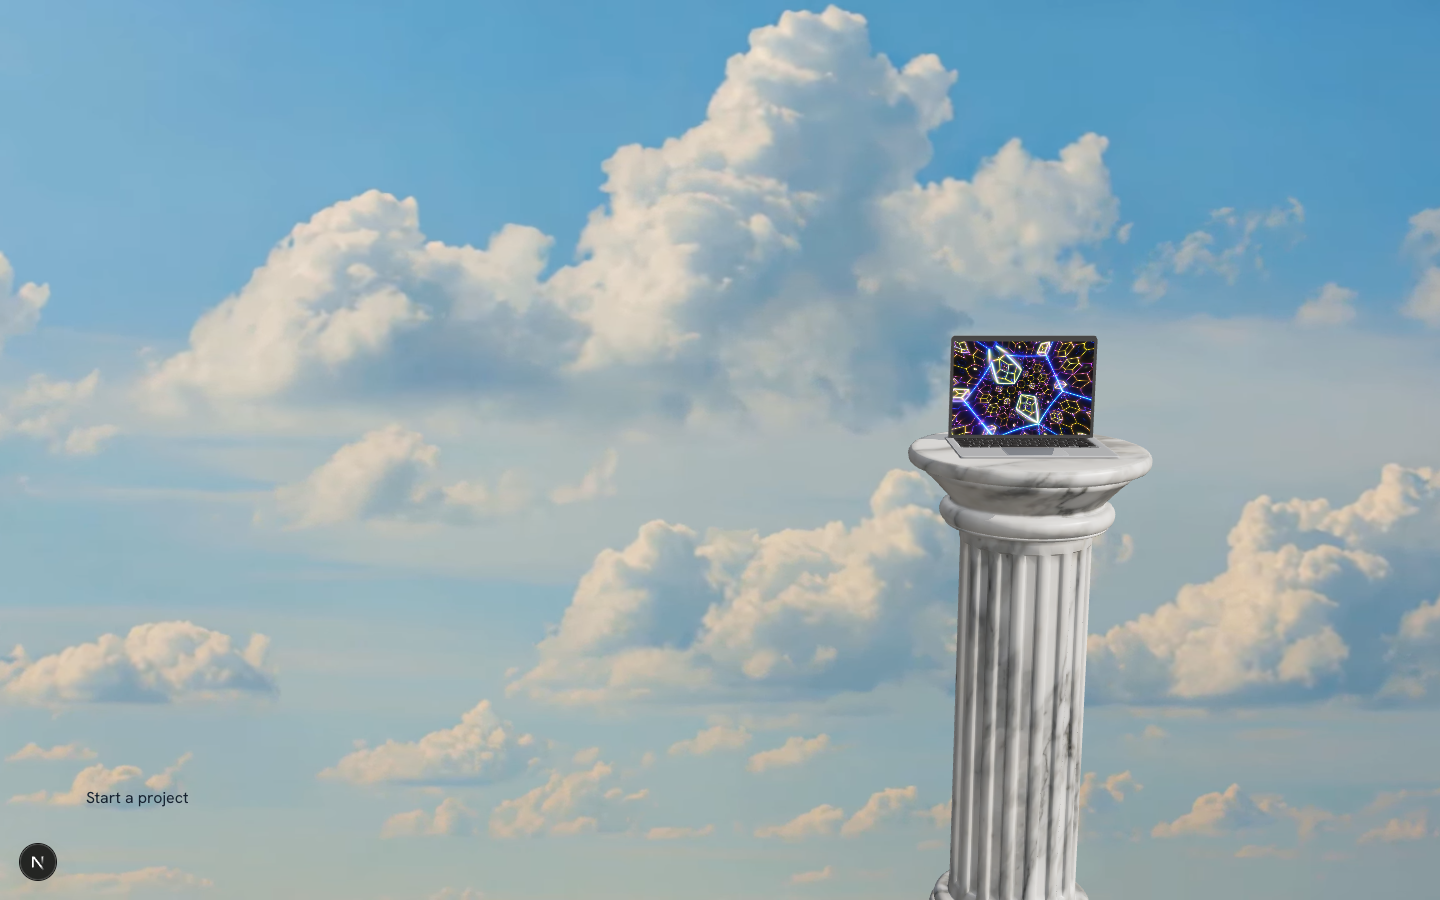
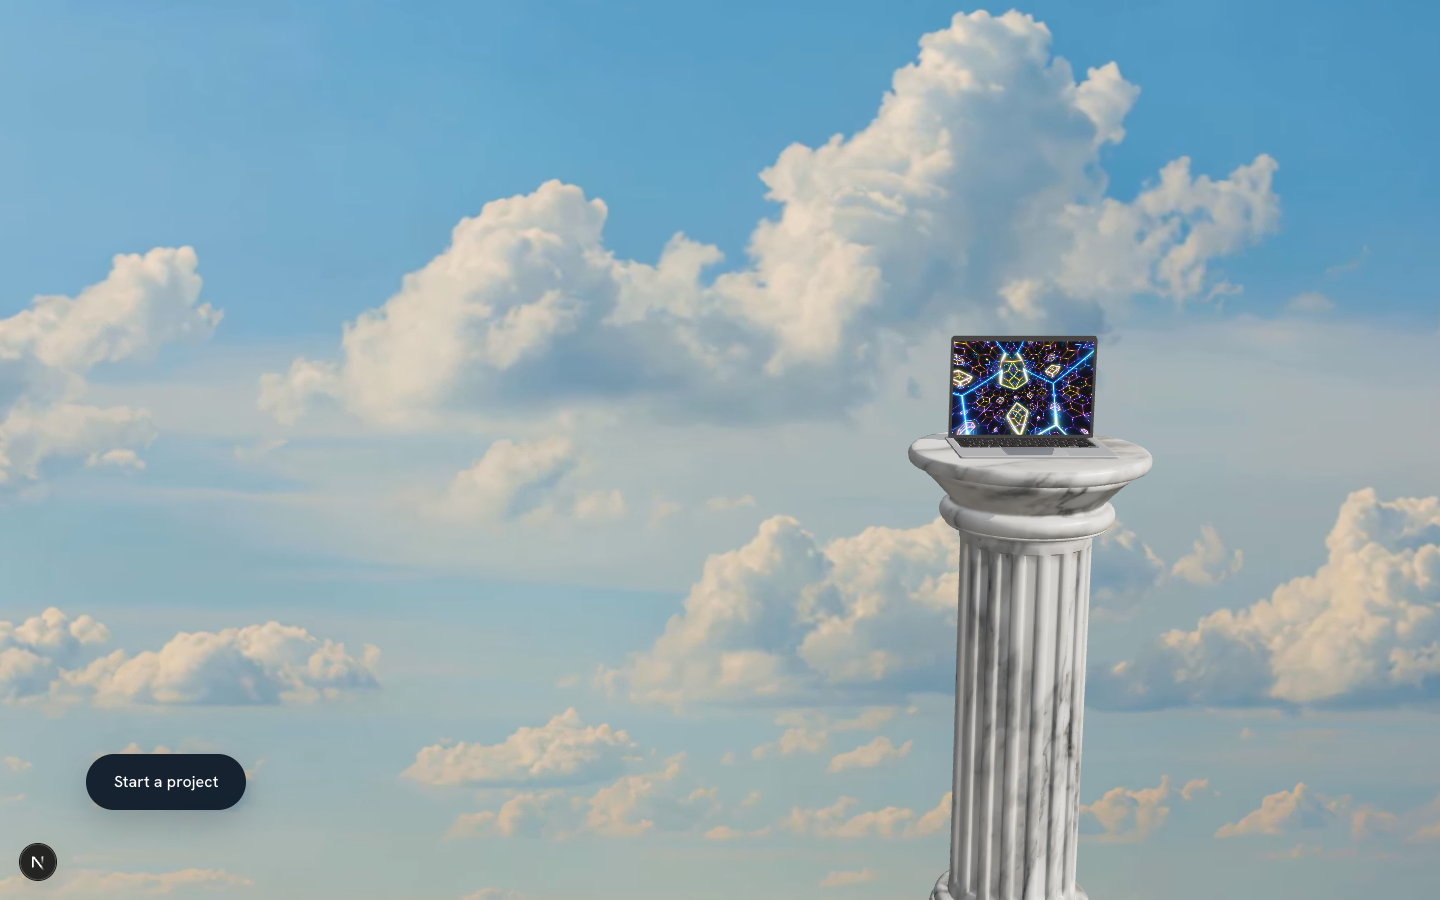
Services rewritten with specific copy; panel tightened, single list with hairlines, higher opacity; button styles restored
Claude-Session: https://claude.ai/code/session_01NAdPXLUXCGhh82qBsMYyAh

diff --git a/src/app/globals.css b/src/app/globals.css
@@ -294,6 +294,29 @@ body {
   to { opacity: 1; transform: none; }
 }
 
+.cta {
+  display: inline-block;
+  padding: 1rem 1.75rem;
+  border: 0;
+  border-radius: 999px;
+  font-family: var(--font-body);
+  font-size: var(--step-0);
+  font-weight: 500;
+  letter-spacing: 0.005em;
+  text-decoration: none;
+  color: white;
+  background: var(--ink);
+  box-shadow: 0 12px 32px rgba(20, 32, 46, 0.22);
+  transition: transform 160ms ease, box-shadow 160ms ease;
+}
+.cta:hover {
+  transform: translateY(-1px);
+  box-shadow: 0 16px 40px rgba(20, 32, 46, 0.3);
+}
+.cta:active {
+  transform: none;
+}
+
 .scroll-hint {
   position: absolute;
   right: clamp(1.25rem, 6vw, 6rem);
@@ -419,7 +442,7 @@ footer.section {
   gap: calc(var(--pad) / var(--phi));
   padding: calc(var(--pad) / var(--phi) / var(--phi));
   border-radius: 999px;
-  background: rgba(6, 8, 14, 0.62);
+  background: rgba(7, 9, 15, 0.82);
   backdrop-filter: blur(18px) saturate(1.1);
   -webkit-backdrop-filter: blur(18px) saturate(1.1);
   border: 1px solid rgba(255, 255, 255, 0.14);
@@ -483,7 +506,7 @@ footer.section {
   left: 50%;
   top: 50%;
   transform: translate(-50%, -50%);
-  width: min(61.8vw, 44rem);
+  width: min(61.8vw, 40rem);
 }
 .tabs__panel {
   position: absolute;
@@ -491,11 +514,11 @@ footer.section {
   width: 100%;
   padding: calc(var(--pad) * var(--phi)) calc(var(--pad) * var(--phi));
   border-radius: 1.25rem;
-  background: rgba(6, 8, 14, 0.74);
+  background: rgba(7, 9, 15, 0.9);
   backdrop-filter: blur(22px) saturate(1.1);
   -webkit-backdrop-filter: blur(22px) saturate(1.1);
-  border: 1px solid rgba(255, 255, 255, 0.14);
-  box-shadow: 0 30px 80px rgba(0, 0, 0, 0.35);
+  border: 1px solid rgba(255, 255, 255, 0.12);
+  box-shadow: 0 30px 80px rgba(0, 0, 0, 0.45), inset 0 1px 0 rgba(255, 255, 255, 0.06);
   opacity: 0;
   transform: translateY(1.2rem) scale(0.985);
   transition: opacity 420ms cubic-bezier(0.2, 0.7, 0.2, 1), transform 520ms cubic-bezier(0.2, 0.7, 0.2, 1);
@@ -533,22 +556,36 @@ footer.section {
   font-size: clamp(var(--step-1), 1.8vw, var(--step-3));
   line-height: 1.2;
   color: rgba(255, 255, 255, 0.86);
-  max-width: 34ch;
+  max-width: 30ch;
+  text-wrap: balance;
 }
 .tabs__points {
-  margin: calc(var(--pad)) 0 0;
+  margin: calc(var(--pad) * var(--phi)) 0 0;
   padding: 0;
   list-style: none;
   display: grid;
-  grid-template-columns: repeat(auto-fit, minmax(14rem, 1fr));
-  gap: calc(var(--pad) / var(--phi)) var(--pad);
+  gap: 0;
   font-family: var(--font-body);
   font-size: var(--step-0);
-  color: rgba(255, 255, 255, 0.8);
+  color: rgba(255, 255, 255, 0.82);
 }
 .tabs__points li {
-  padding-top: calc(var(--pad) / var(--phi) / var(--phi));
-  border-top: 1px solid rgba(255, 255, 255, 0.16);
+  padding: calc(var(--pad) / var(--phi)) 0;
+  border-top: 1px solid rgba(255, 255, 255, 0.12);
+  display: flex;
+  align-items: baseline;
+  gap: var(--pad);
+}
+.tabs__points li::before {
+  content: "";
+  flex: none;
+  width: 0.5rem;
+  height: 1px;
+  background: var(--accent-cold, #9fb1c6);
+  transform: translateY(-0.35em);
+}
+.tabs__points li:last-child {
+  border-bottom: 1px solid rgba(255, 255, 255, 0.12);
 }
 @media (prefers-reduced-motion: reduce) {
   .tabs, .tabs__heading, .tabs__panel { transition: none; }

diff --git a/src/portal/services.ts b/src/portal/services.ts
@@ -1,36 +1,36 @@
-/** The six services shown inside the laptop, in rail order. Copy from the brief, sentence case. */
+/** The six services shown inside the laptop, in rail order. Plain, specific, sentence case. */
 export type Service = { title: string; lead: string; points: string[] };
 
 export const SERVICES: Service[] = [
   {
     title: "3D Experiences",
-    lead: "The page you are on is one.",
-    points: ["3D website elements", "Interactive scroll animations", "GSAP and advanced motion", "Experimental web interactions"],
+    lead: "Scroll driven worlds like this one, built to run at sixty frames a second.",
+    points: ["Real time 3D on the web", "Scroll choreography and motion", "Shader and particle effects", "Interactive product and brand pieces"],
   },
   {
     title: "Web Development",
-    lead: "Sites built to be read, and to last.",
-    points: ["UI and UX design", "Website design and redesign", "Conversion focused structure"],
+    lead: "Sites that load fast, read well and still look right in five years.",
+    points: ["Design and build in one team", "Redesigns of tired sites", "Structure that turns visits into enquiries", "Speed and accessibility as standard"],
   },
   {
     title: "Growth System",
-    lead: "Everything in Web Development, plus the engine that brings people to it.",
-    points: ["Landing pages", "Conversion optimisation", "Paid ads management across Meta and Google", "Performance creative", "Ongoing SEO", "A monthly report and strategy call"],
+    lead: "The site, plus the engine that sends people to it, reported every month.",
+    points: ["Landing pages that convert", "Paid ads on Meta and Google", "Search that compounds over time", "Creative made for performance", "A monthly report and a call"],
   },
   {
     title: "Custom Application Builds",
-    lead: "Software built around how your business actually runs.",
-    points: [],
+    lead: "Software shaped around how your business actually runs.",
+    points: ["Internal tools and dashboards", "Client portals and booking", "Integrations with what you already use"],
   },
   {
     title: "Lead Generation",
-    lead: "Cold outbound that fills the calendar.",
-    points: [],
+    lead: "Cold outbound that puts qualified calls in the calendar.",
+    points: ["Targeting and list building", "Copy that gets replies", "Warm up, sending and follow up handled"],
   },
   {
     title: "AI Consulting",
     lead: "Where AI fits your business, and where it does not.",
-    points: [],
+    points: ["An honest audit of your workflows", "Build or buy, decided with numbers", "Rollout with your team, not around them"],
   },
 ];
 
